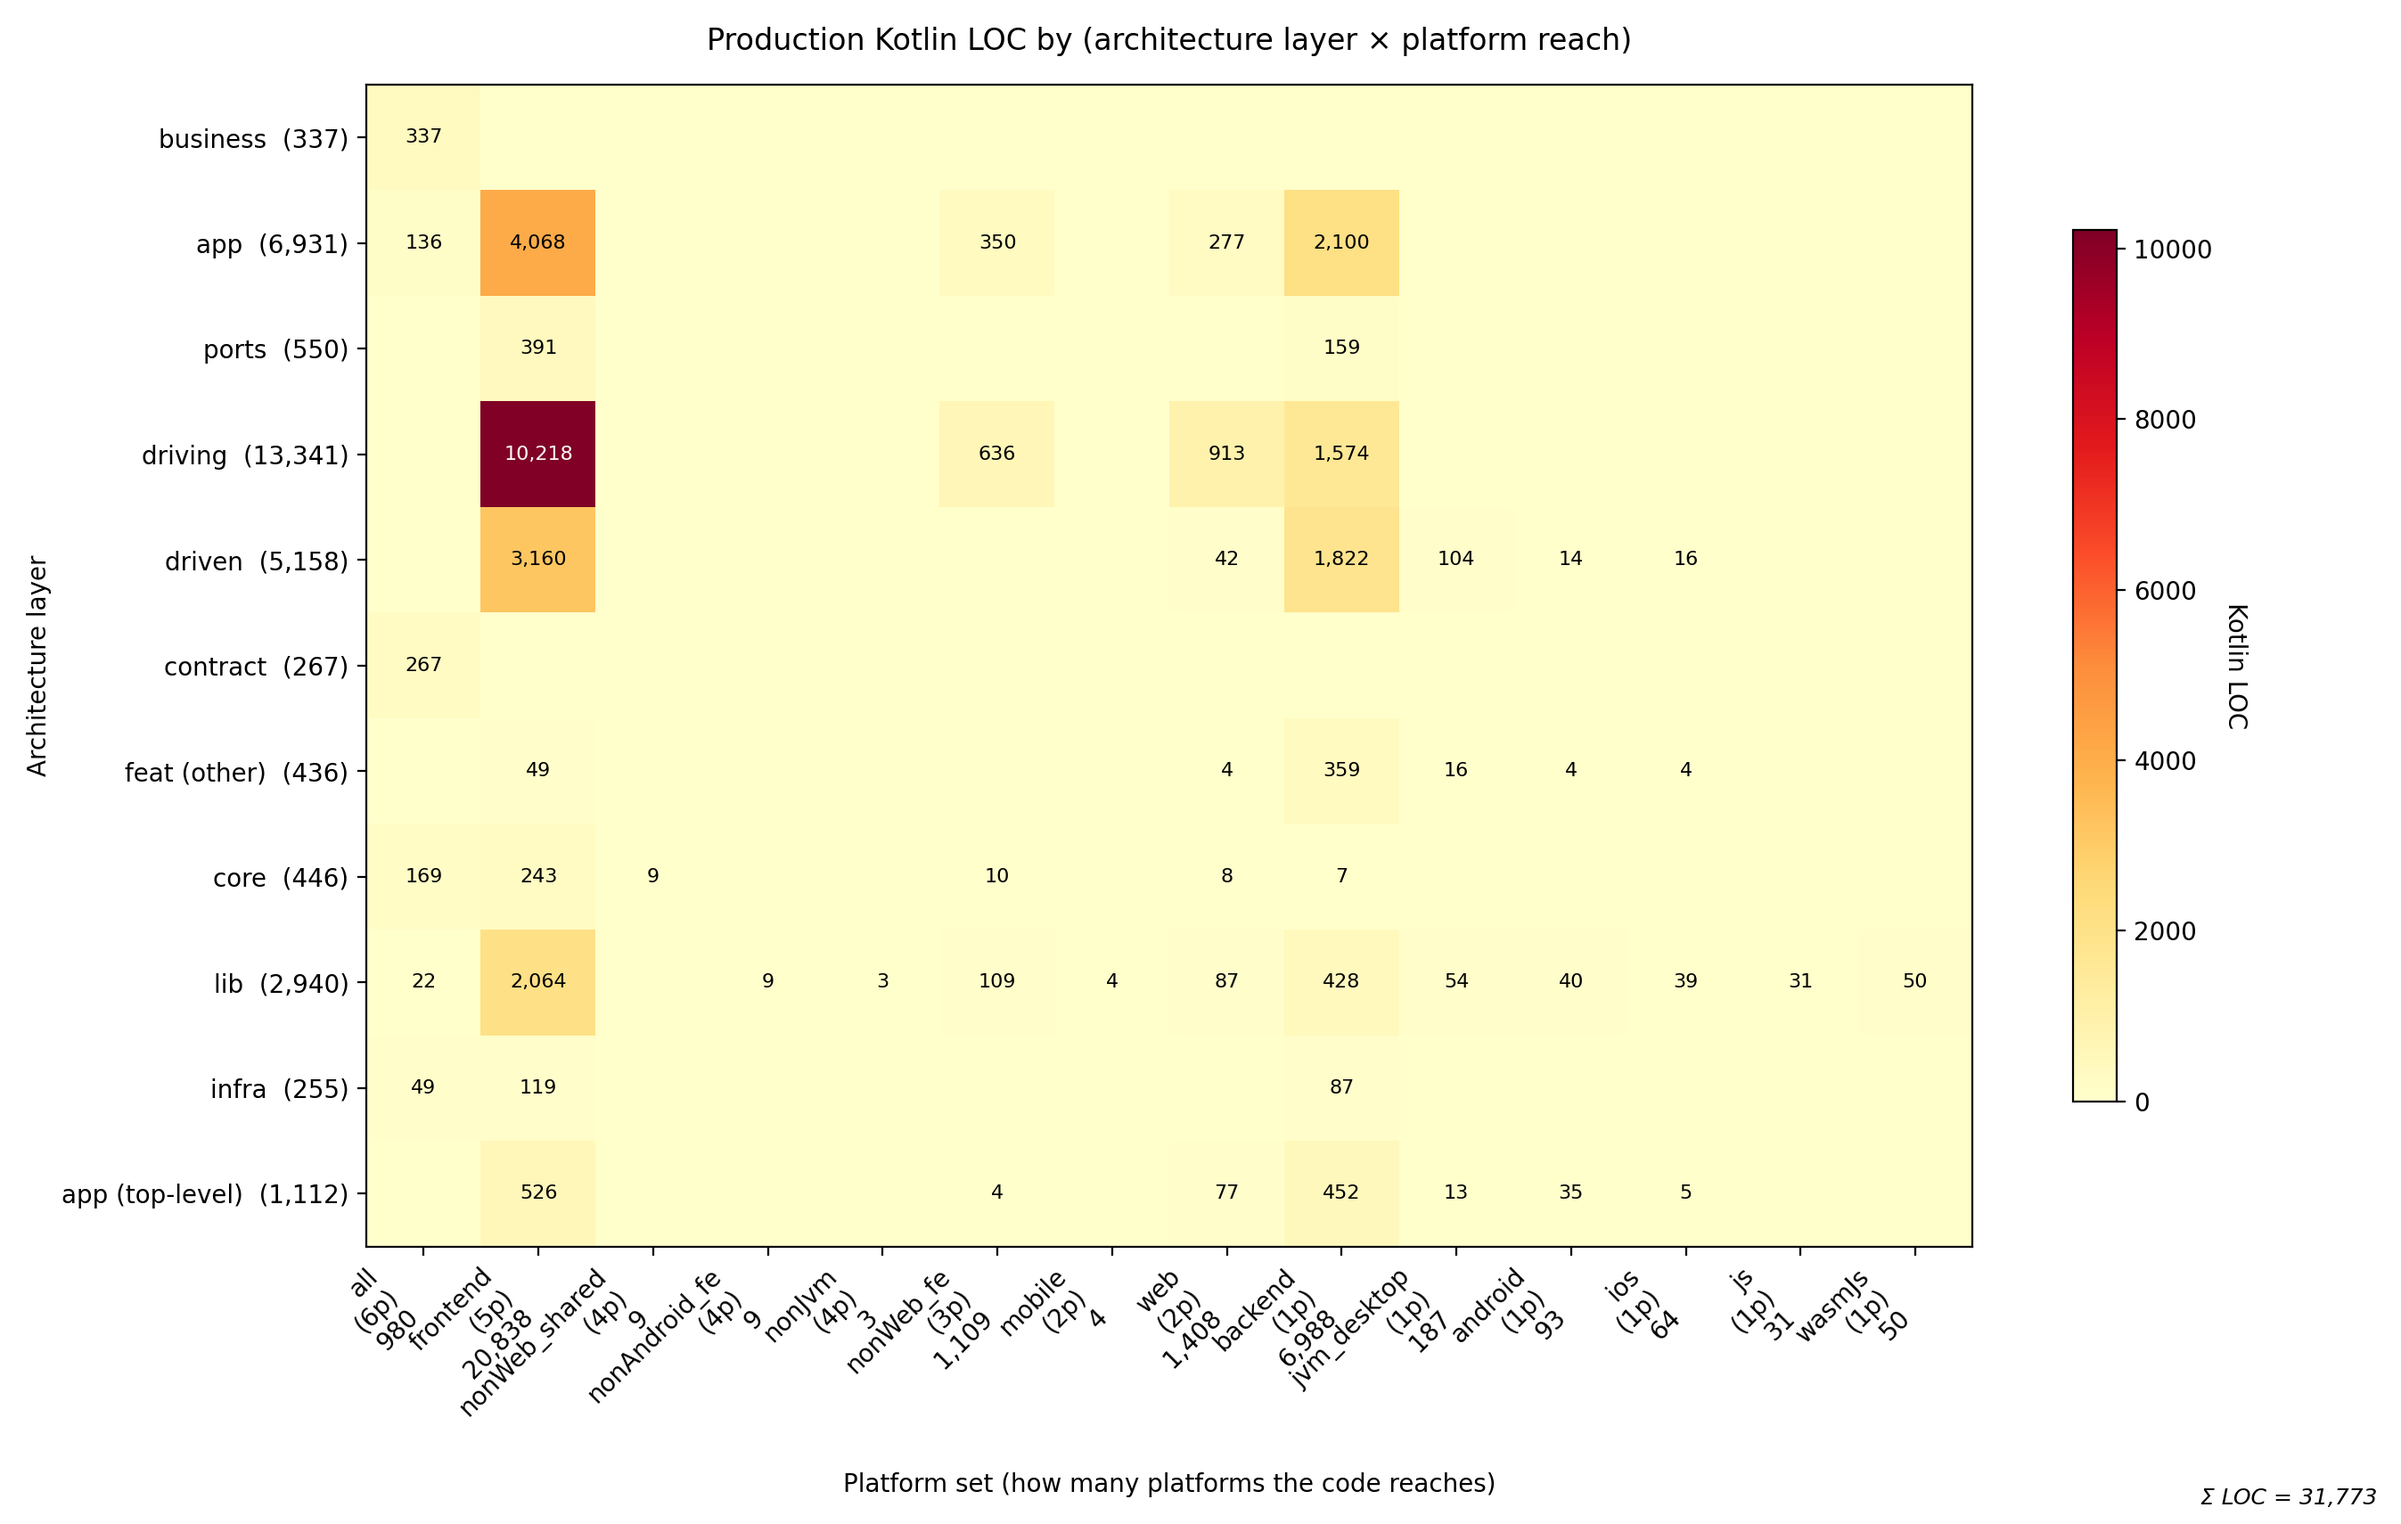
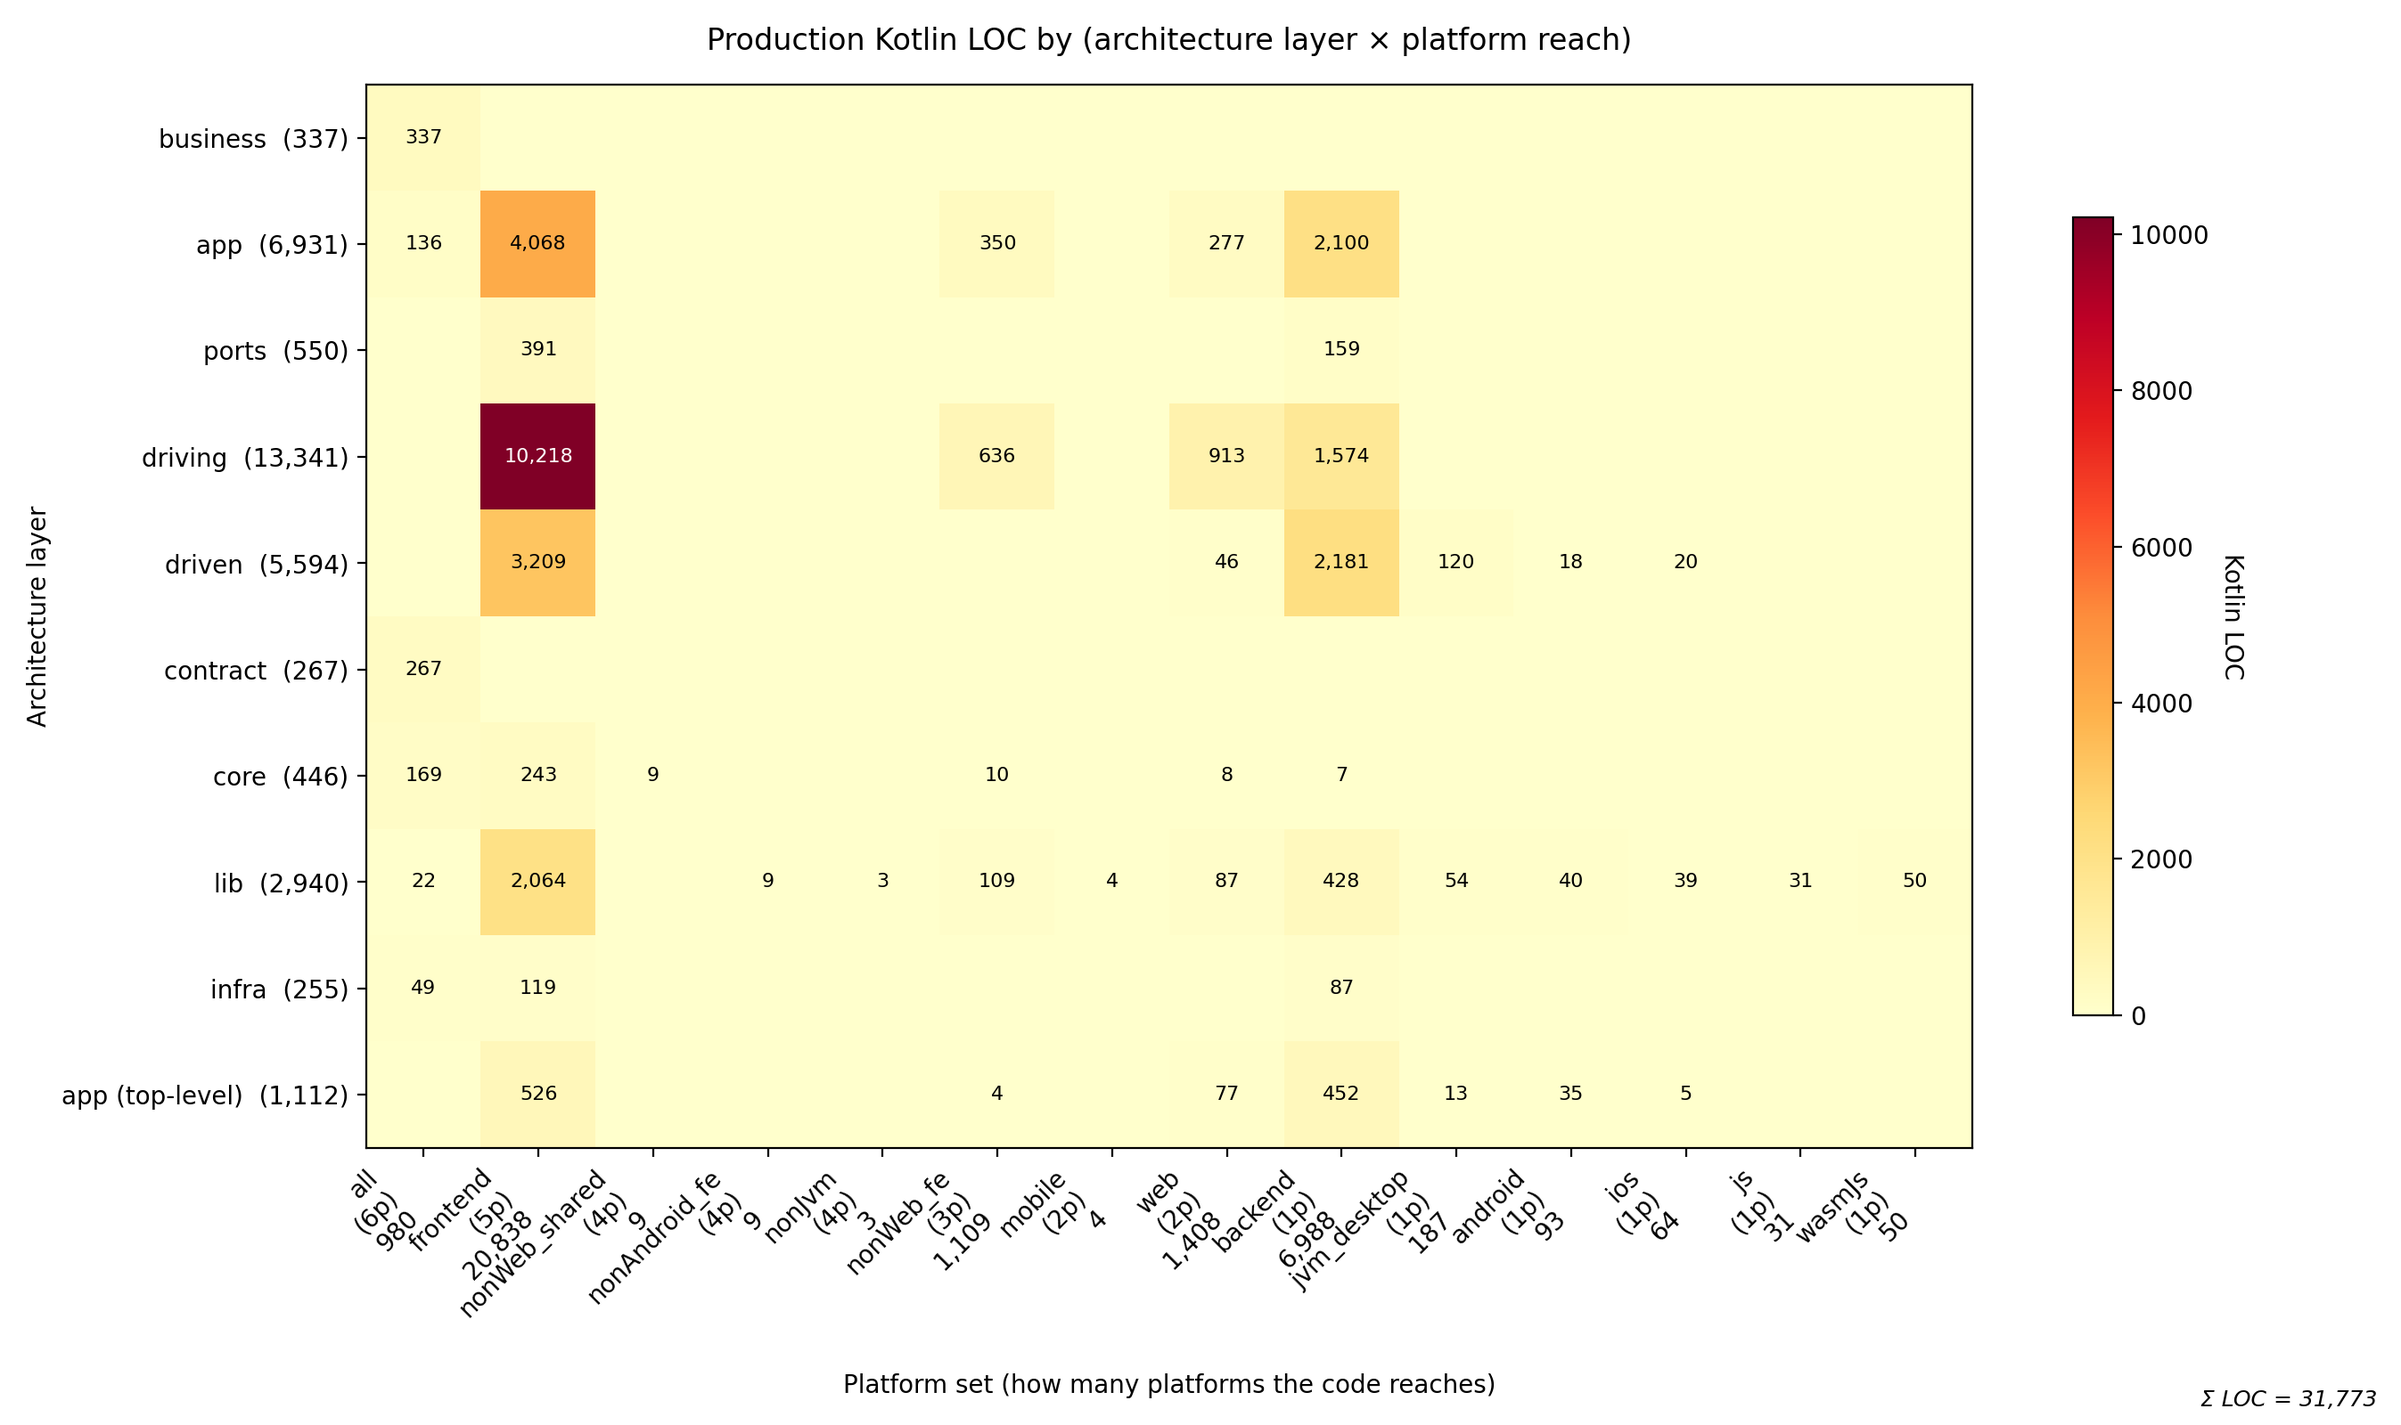
Adapt sharing analysis to featuresShared category [J:MEP-0]
Teach the row builder and figures.py about the new `FeaturesSharedModule`
subtype from PR #226:

- `SharingReportRowBuilder.toClassification()` gains a `FeaturesSharedModule`
  branch emitting `category = "featuresShared"` with feature/platform/
  hex/encapsulation fields. Added 4 row-builder test cases covering both
  database and storage shapes across be + fe.
- `figures.py.derive_layer` folds `featuresShared` into the same hex rows
  as `feat` — the reader cares about the architectural layer, not whether
  a feature is per-feature or cross-feature. `app (top-level)` stays as
  its own row.
- `feat (other)` kept in `LAYER_ORDER` as a regression tripwire; after
  the restructure the row regenerates empty and disappears from the
  heatmap, but a reappearance is visible rather than silently dropped.

Headline rebased totals:

| Layer           | Total | all  | frontend | backend |
|-----------------|------:|-----:|---------:|--------:|
| business        |   337 |  337 |        0 |       0 |
| app             | 6,931 |  136 |    4,068 |   2,100 |
| ports           |   550 |    0 |      391 |     159 |
| driving         |13,341 |    0 |   10,218 |   1,574 |
| driven          | 5,594 |    0 |    3,209 |   2,181 |
| contract        |   267 |  267 |        0 |       0 |
| core            |   446 |  169 |      243 |       7 |
| lib             | 2,940 |   22 |    2,064 |     428 |
| infra           |   255 |   49 |      119 |      87 |
[…]

diff --git a/build-logic/src/test/kotlin/cz/adamec/timotej/snag/buildsrc/configuration/analysis/SharingReportRowBuilderTest.kt b/build-logic/src/test/kotlin/cz/adamec/timotej/snag/buildsrc/configuration/analysis/SharingReportRowBuilderTest.kt
@@ -362,16 +362,61 @@ class SharingReportRowBuilderTest {
         assertEquals("contract", row.encapsulation)
     }
 
+    // ---------- FeaturesSharedModule ----------
+
     @Test
-    fun `feat shared database be impl preserves multi-segment feature name`() {
+    fun `featuresShared database be driven api`() {
         val row = buildRows(
-            modulePath = ":feat:shared:database:be:impl",
-            pluginId = "libs.plugins.snag.driven.backend.module",
+            modulePath = ":featuresShared:database:be:driven:api",
+            pluginId = "libs.plugins.snag.backend.module",
             sourceSets = listOf("main"),
         ).single()
-        assertEquals("shared:database", row.feature)
+        assertEquals("featuresShared", row.category)
+        assertEquals("database", row.feature)
         assertEquals("be", row.platform)
-        assertEquals("", row.hexLayer)
+        assertEquals("driven", row.hexLayer)
+        assertEquals("api", row.encapsulation)
+    }
+
+    @Test
+    fun `featuresShared database be driven impl`() {
+        val row = buildRows(
+            modulePath = ":featuresShared:database:be:driven:impl",
+            pluginId = "libs.plugins.snag.backend.module",
+            sourceSets = listOf("main"),
+        ).single()
+        assertEquals("featuresShared", row.category)
+        assertEquals("database", row.feature)
+        assertEquals("be", row.platform)
+        assertEquals("driven", row.hexLayer)
+        assertEquals("impl", row.encapsulation)
+    }
+
+    @Test
+    fun `featuresShared storage fe driven impl`() {
+        val row = buildRows(
+            modulePath = ":featuresShared:storage:fe:driven:impl",
+            pluginId = "libs.plugins.snag.frontend.multiplatform.module",
+            sourceSets = listOf("commonMain"),
+        ).single()
+        assertEquals("featuresShared", row.category)
+        assertEquals("storage", row.feature)
+        assertEquals("fe", row.platform)
+        assertEquals("driven", row.hexLayer)
+        assertEquals("impl", row.encapsulation)
+    }
+
+    @Test
+    fun `featuresShared storage be driven impl`() {
+        val row = buildRows(
+            modulePath = ":featuresShared:storage:be:driven:impl",
+            pluginId = "libs.plugins.snag.backend.module",
+            sourceSets = listOf("main"),
+        ).single()
+        assertEquals("featuresShared", row.category)
+        assertEquals("storage", row.feature)
+        assertEquals("be", row.platform)
+        assertEquals("driven", row.hexLayer)
         assertEquals("impl", row.encapsulation)
     }
 

diff --git a/build-logic/src/main/kotlin/cz/adamec/timotej/snag/buildsrc/configuration/analysis/SharingReportRowBuilder.kt b/build-logic/src/main/kotlin/cz/adamec/timotej/snag/buildsrc/configuration/analysis/SharingReportRowBuilder.kt
@@ -16,6 +16,7 @@ import cz.adamec.timotej.snag.buildsrc.configuration.architecture.AppModule
 import cz.adamec.timotej.snag.buildsrc.configuration.architecture.CoreModule
 import cz.adamec.timotej.snag.buildsrc.configuration.architecture.Encapsulation
 import cz.adamec.timotej.snag.buildsrc.configuration.architecture.FeatModule
+import cz.adamec.timotej.snag.buildsrc.configuration.architecture.FeaturesSharedModule
 import cz.adamec.timotej.snag.buildsrc.configuration.architecture.HexLayer
 import cz.adamec.timotej.snag.buildsrc.configuration.architecture.InfraModule
 import cz.adamec.timotej.snag.buildsrc.configuration.architecture.LibModule
@@ -137,6 +138,13 @@ private fun ModuleIdentity.toClassification(): Classification = when (this) {
     )
     is FeatModule -> Classification(
         category = "feat",
+        feature = feature,
+        platform = platform.asCsv(),
+        hexLayer = hexLayer.asCsv(),
+        encapsulation = encapsulation.asCsv(),
+    )
+    is FeaturesSharedModule -> Classification(
+        category = "featuresShared",
         feature = feature,
         platform = platform.asCsv(),
         hexLayer = hexLayer.asCsv(),

diff --git a/analysis/figures.py b/analysis/figures.py
@@ -55,24 +55,25 @@ def load_joined_table() -> pd.DataFrame:
 # ---------------------------------------------------------------------------------------------
 #
 # The heatmap's vertical axis groups each LOC row by a coarse "architectural role" label.
-# The `hex_layer` column emitted by SharingReportTask only fills in for feat modules that
-# follow the hexagonal convention, so we extend it with module-category fallbacks so every
-# LOC row lands in exactly one row of the matrix:
+# The `hex_layer` column emitted by SharingReportTask only fills in for hex-shaped modules
+# (feat + featuresShared), so we extend it with module-category fallbacks so every LOC row
+# lands in exactly one row of the matrix:
 #
-# - feat modules with a hex layer → the hex layer name (business / app / ports / driving / driven)
+# - feat and featuresShared modules with a hex layer → the hex layer name
+#   (business / app / ports / driving / driven). Both categories share the same hex rows —
+#   the reader cares about the architectural layer, not whether a feature is per-feature
+#   business code or cross-feature infrastructure.
 # - feat or lib modules with encapsulation=contract → `contract`
-# - feat modules without either signal → `feat (other)`. After the sync-structure refactor
-#   this bucket catches the shared cross-feature infrastructure in `:feat:shared:database:*`
-#   and `:feat:shared:storage:*` — modules with multi-segment feature names that expose
-#   common database/storage plumbing used by several features and don't fit the standard
-#   per-feature hex layout. It is deliberately a small residual bucket, not a first-class
-#   architectural layer.
+# - feat modules without either signal → `feat (other)`. **After the featuresShared restructure
+#   this row should regenerate empty** — it is kept in LAYER_ORDER as a regression tripwire so
+#   any module that drifts back into a non-hex shape is visible in the heatmap instead of being
+#   silently dropped by the reindex.
 # - core modules → `core`
 # - lib modules (non-contract) → `lib`
 # - infra modules → `infra`
 # - top-level app modules (androidApp, composeApp, server, wearApp) → `app (top-level)`
 #
-# Note that `app` as a feat hex layer and `app (top-level)` as a category are different things
+# Note that `app` as a hex layer and `app (top-level)` as a category are different things
 # and appear as separate rows. `app` is the application layer inside a feature's hexagonal
 # architecture; `app (top-level)` is the single-segment module at the root of the build that
 # wires everything into a runnable binary.
@@ -101,7 +102,7 @@ def derive_layer(row: pd.Series) -> str:
     hex_layer = row["hex_layer"]
     encapsulation = row["encapsulation"]
 
-    if category == "feat":
+    if category in ("feat", "featuresShared"):
         if hex_layer:
             return hex_layer
         if encapsulation == "contract":
